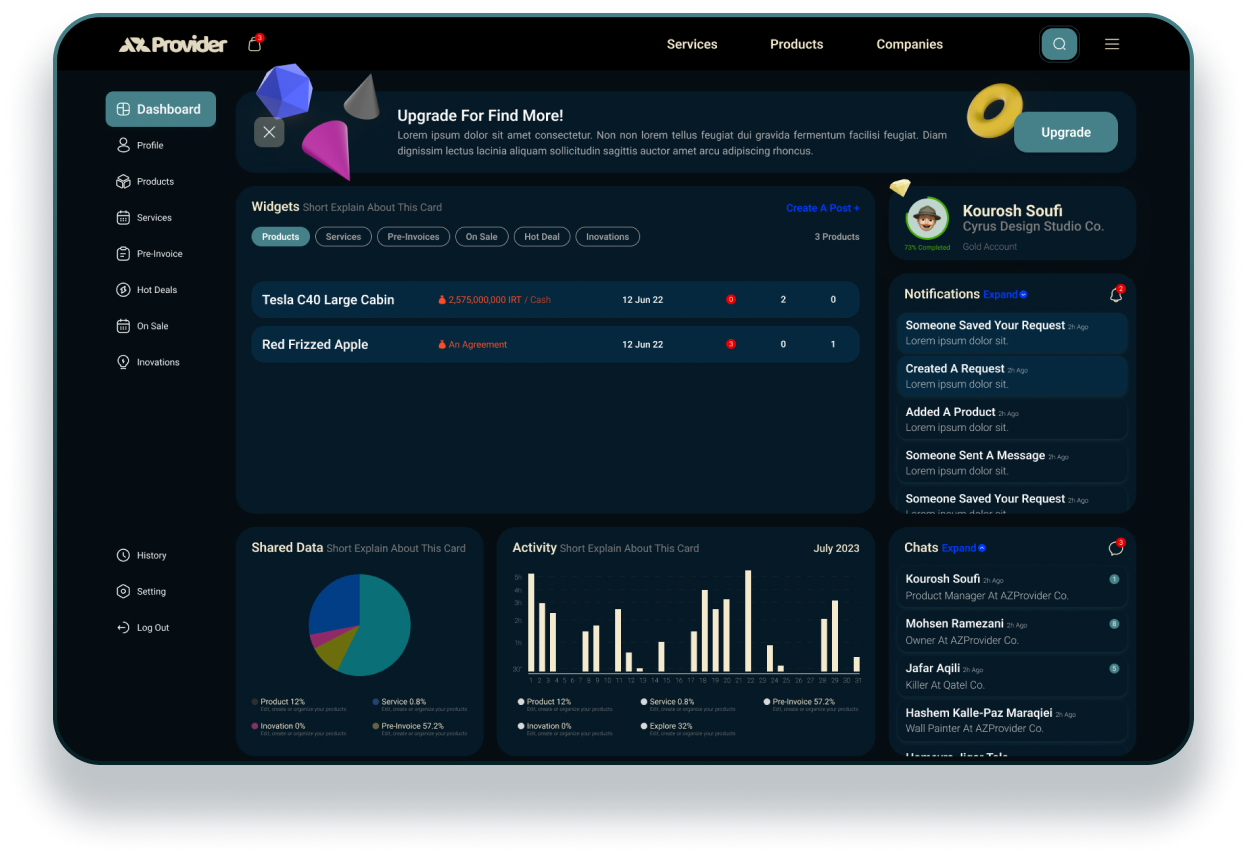
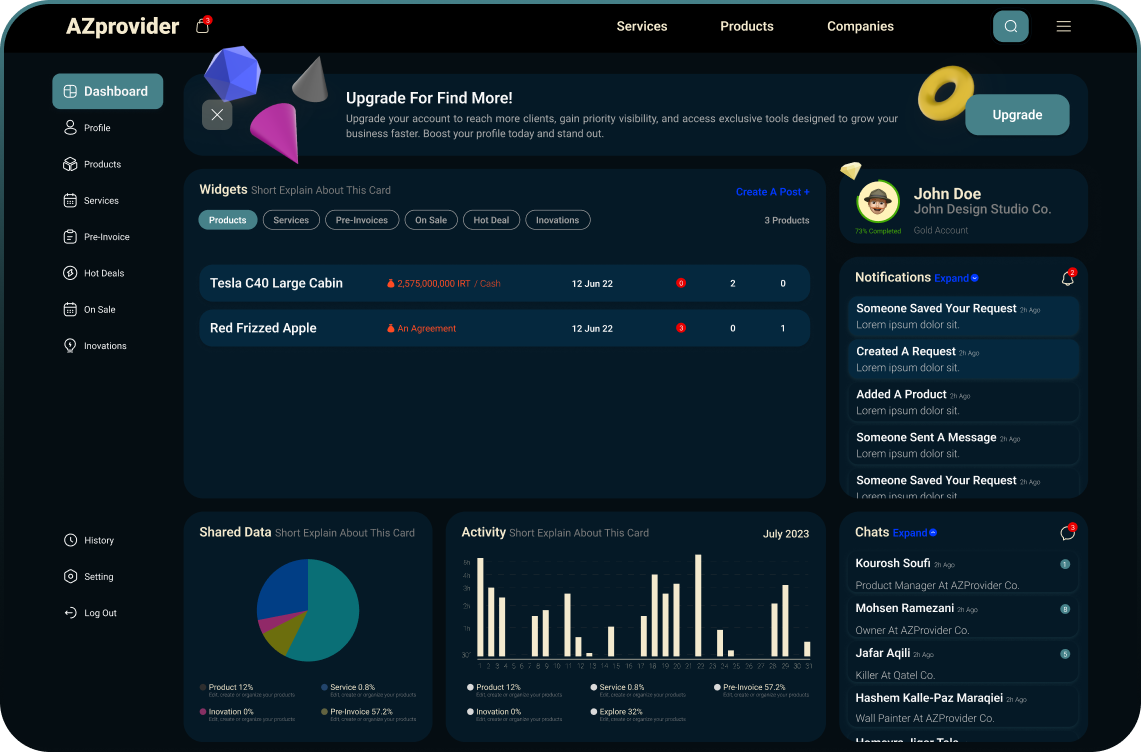
add new dashboard

diff --git a/src/components/mainPages/landing/AboutAzLanding.tsx b/src/components/mainPages/landing/AboutAzLanding.tsx
@@ -42,9 +42,9 @@ const AboutAzLanding = () => {
     ];
 
     return (
-        <div className='w-full bg-secondary-yellow pt-16 md:pt-[28rem] px-5 box-border overflow-x-hidden'>
+        <div className='w-full bg-secondary-yellow pt-24 md:pt-[28rem] px-5 box-border overflow-x-hidden'>
 
-            <div className='w-full max-w-[71rem]  mx-auto  mt-12'>
+            <div className='w-full max-w-[71rem]  mx-auto  mt-24'>
                 <AboutAzImages images={images} />;
 
                 <div className='w-full grid grid-cols-12 gap-4'>
